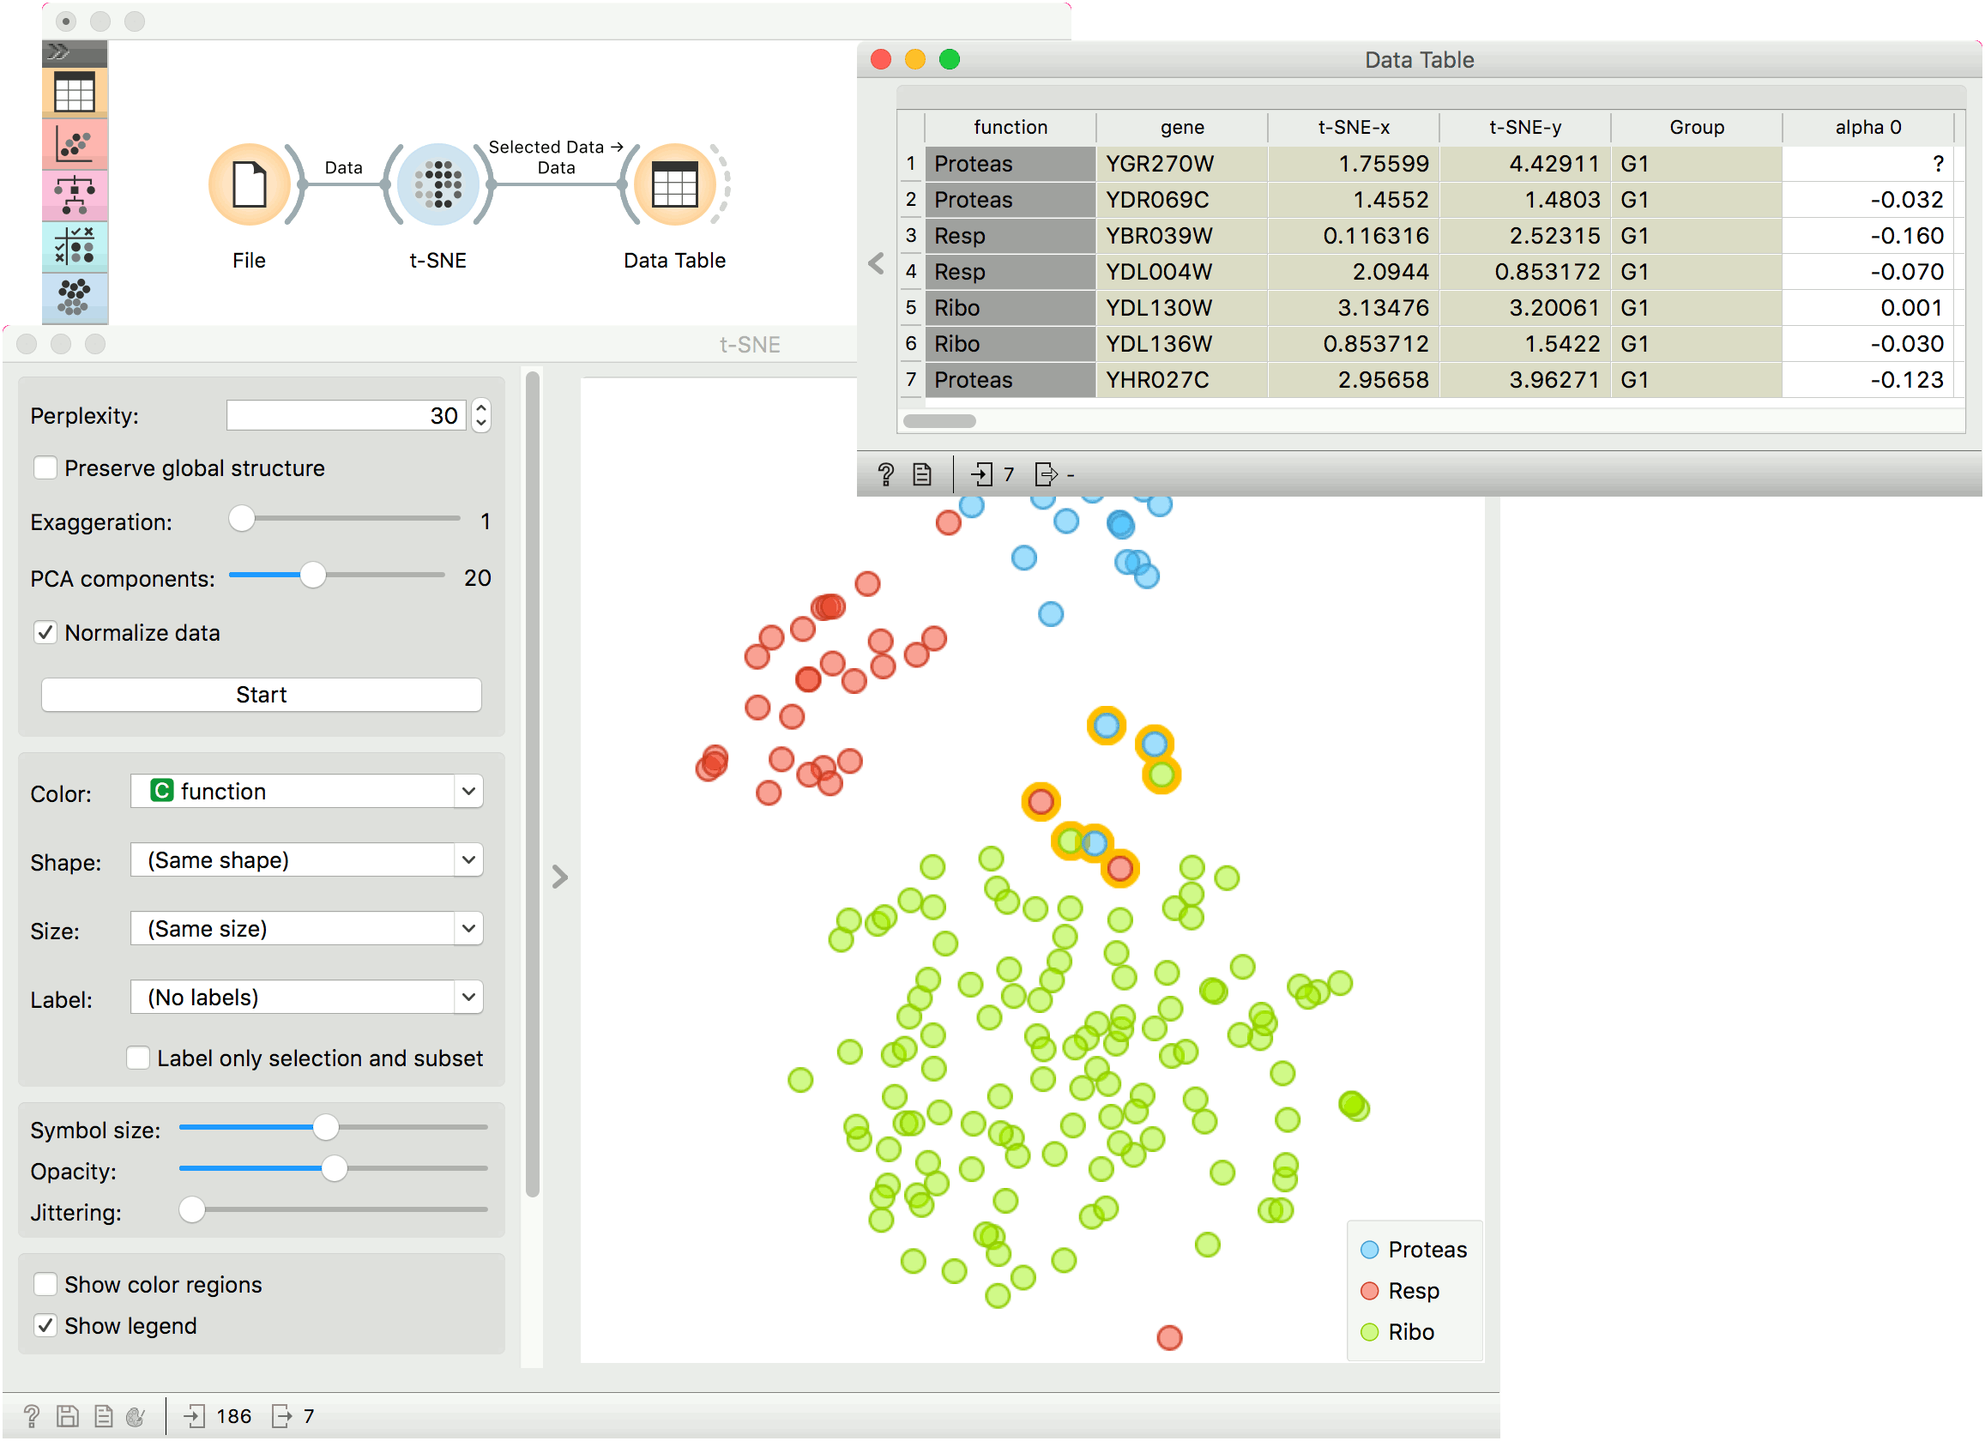
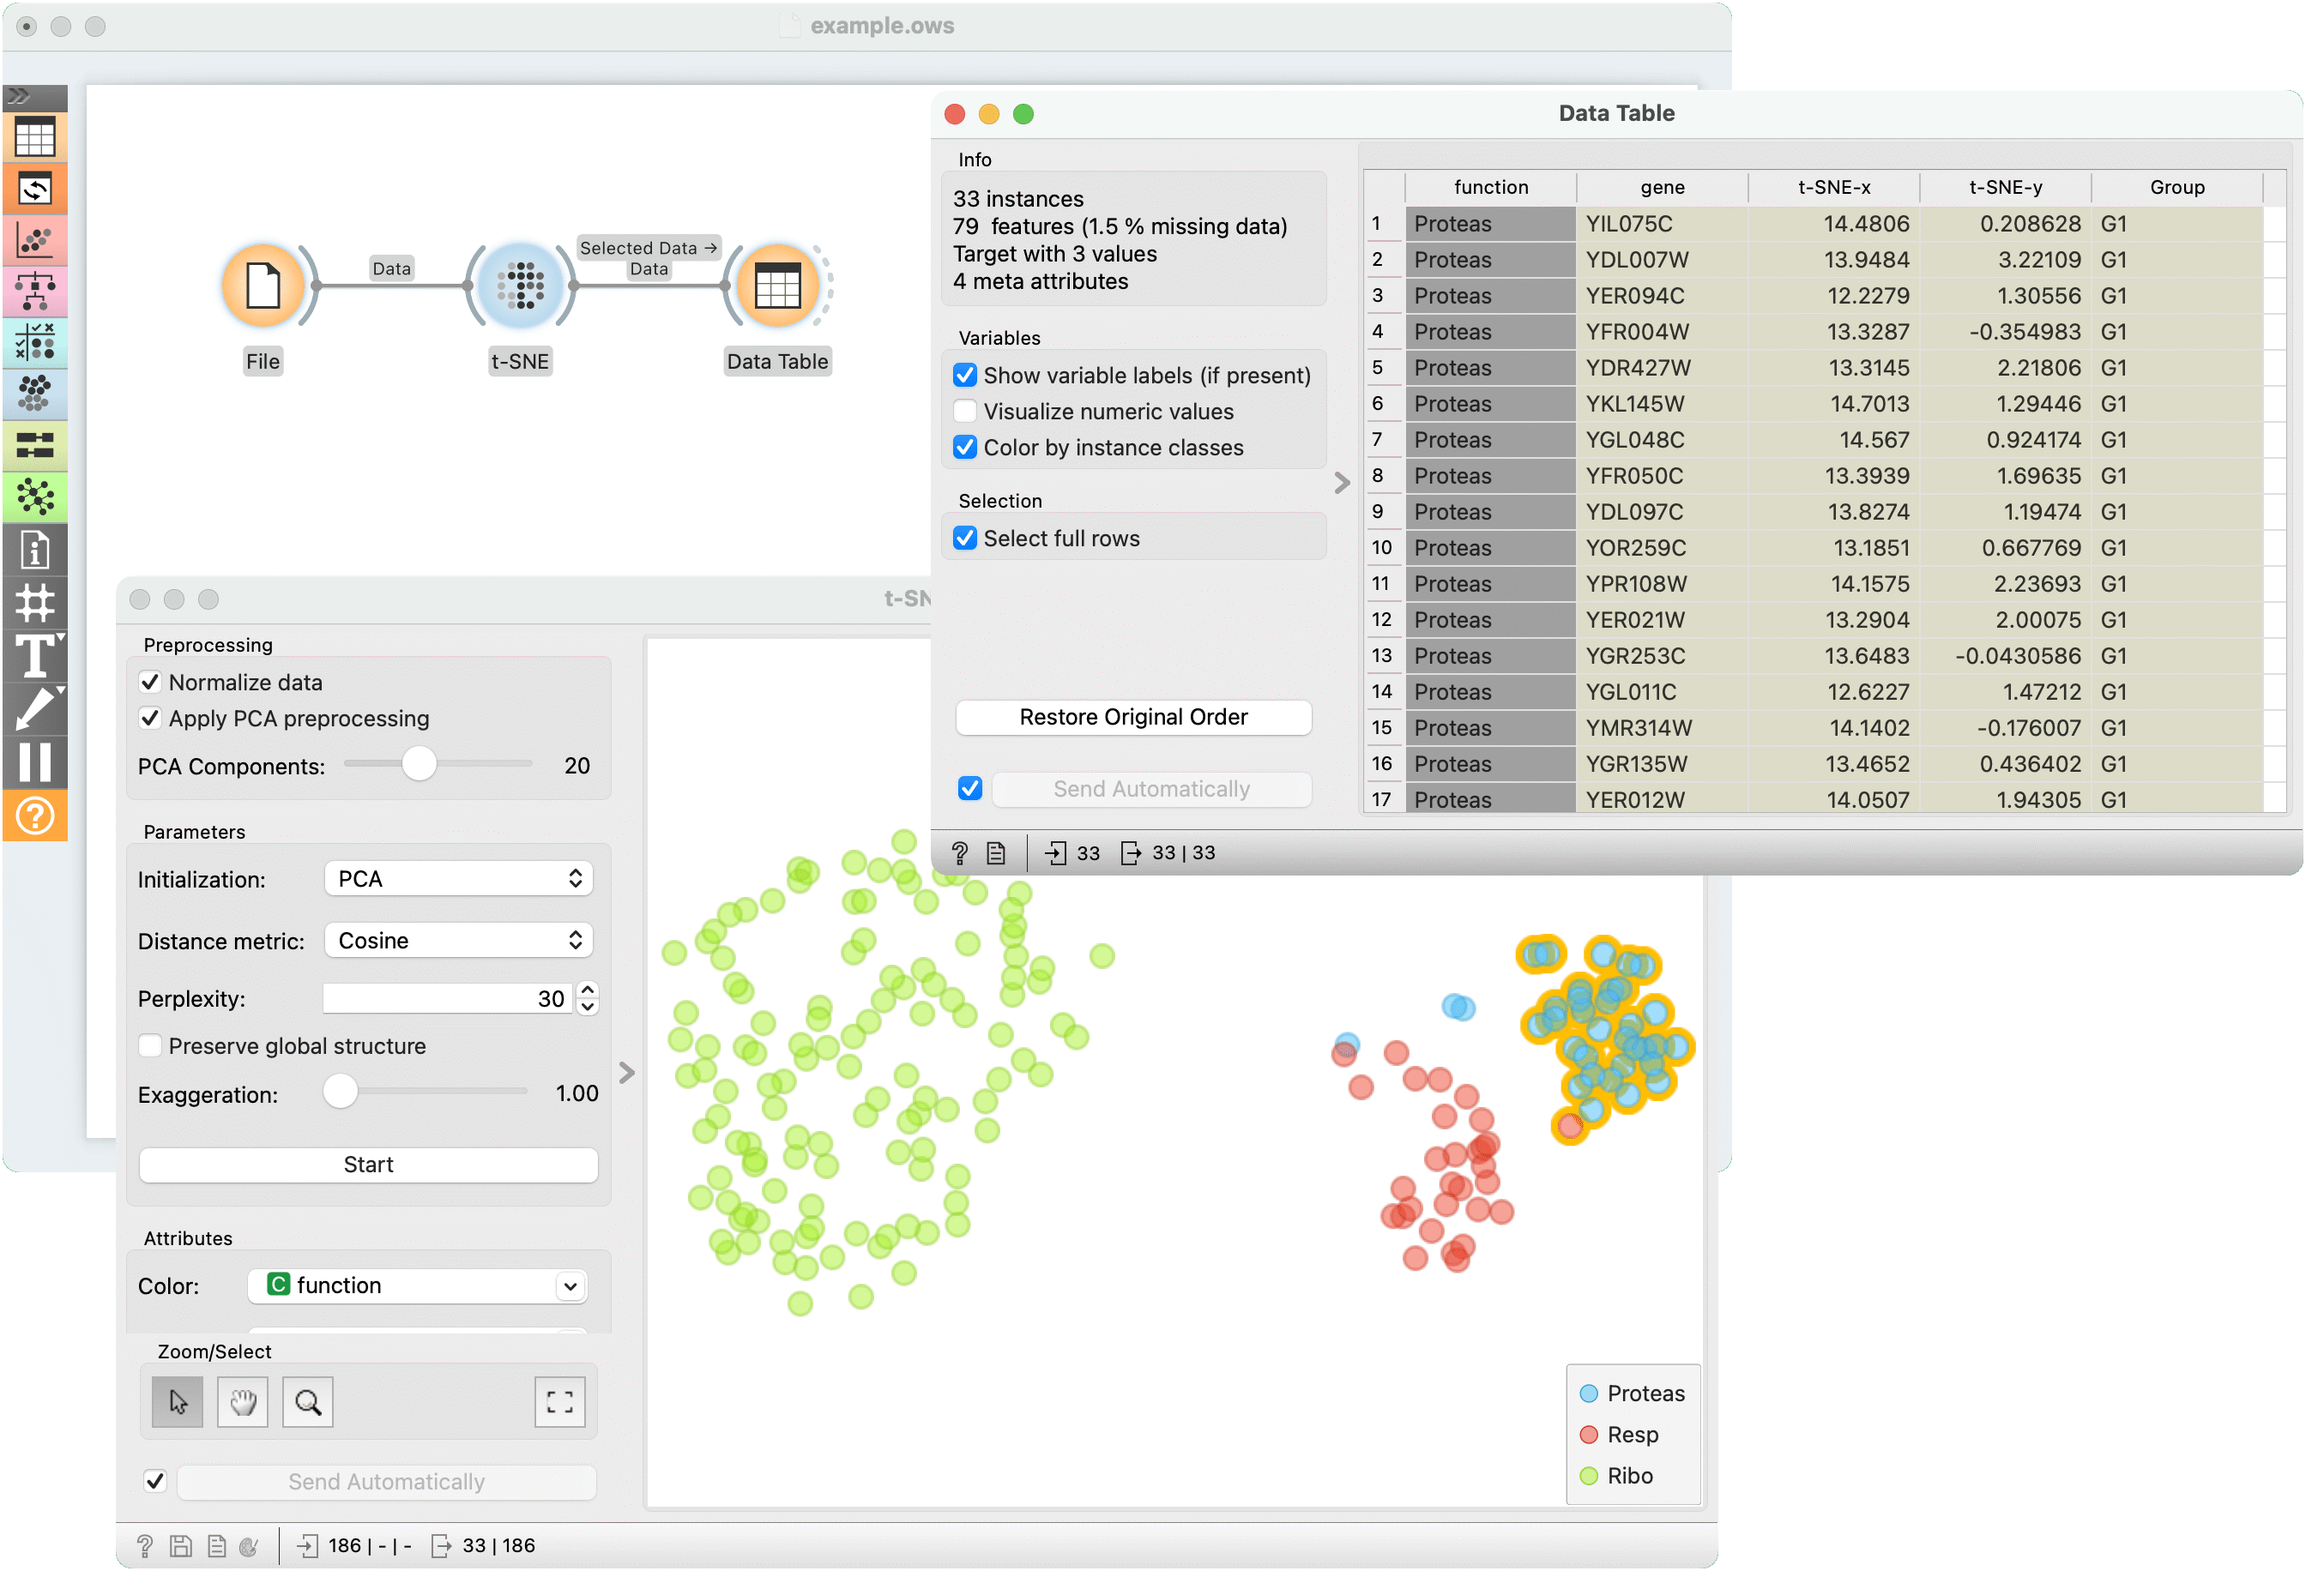
owtsne: Update documentation

diff --git a/doc/visual-programming/source/widgets/unsupervised/tsne.md b/doc/visual-programming/source/widgets/unsupervised/tsne.md
@@ -6,39 +6,51 @@ Two-dimensional data projection with t-SNE.
 **Inputs**
 
 - Data: input dataset
+- Distances: distance matrix
 - Data Subset: subset of instances
 
 **Outputs**
 
 - Selected Data: instances selected from the plot
-- Data: data with an additional column showing whether a point is selected
+- Data: data with t-SNE coordinates and an additional column showing whether a point is selected
 
-The **t-SNE** widget plots the data with a t-distributed stochastic neighbor embedding method. [t-SNE](https://en.wikipedia.org/wiki/T-distributed_stochastic_neighbor_embedding) is a dimensionality reduction technique, similar to MDS, where points are mapped to 2-D space by their probability distribution.
+The **t-SNE** widget creates a visualization using t-distributed stochastic neighbor embedding (t-SNE). [t-SNE](https://en.wikipedia.org/wiki/T-distributed_stochastic_neighbor_embedding) is a dimensionality reduction technique, similar to MDS, where points are mapped to 2-D space by their probability distribution.
+
+The widget accepts either a data table or a distance matrix as input. If a data table is provided, the widget will apply the chosen preprocessing option, then calculate distances internally.
 
 ![](images/tSNE-stamped.png)
 
-1. [Parameters](https://opentsne.readthedocs.io/en/latest/parameters.html) for plot optimization:
-   - measure of [perplexity](http://scikit-learn.org/stable/modules/generated/sklearn.manifold.TSNE.html). Roughly speaking, it can be interpreted as the number of nearest neighbors to distances will be preserved from each point. Using smaller values can reveal small, local clusters, while using large values tends to reveal the broader, global relationships between data points.
+1. Preprocessing is applied before t-SNE computes the distances between data points in the dataset. These parameters are ignored when the *Distances* input is provided.
+   - *Normalize data*: We can apply standardization before running PCA. Standardization normalizes each column by subtracting the column mean and dividing by the standard deviation.
+   - *Apply PCA preprocessing*: For datasets with large numbers of features, e.g. 100 or 1,000, or highly correlated variables, we can apply PCA preprocessing to speed up the algorithm and decorrelate the data.
+   - *PCA components*: the number of principal components to use when applying PCA preprocessing.
+
+2. Optimization parameters. The parameters are explained in-depth [here](https://opentsne.readthedocs.io/en/latest/parameters.html):
+   - *Initialization*: PCA positions the initial points along principal coordinate axes. Spectral inialization calculates the spectral embedding of t-SNE's affinity matrix. Only spectral intialization is supported when using precomputed distance matrices.
+   - *Distance metric*: The distance metric to be used when calculating distances between data points. This setting is ignored when a precomputed distance matrix is provided.
+   - [*Perplexity*](http://scikit-learn.org/stable/modules/generated/sklearn.manifold.TSNE.html): Roughly speaking, perplexity be interpreted as the number of nearest neighbors to which distances will be preserved. Using smaller values can reveal small, local clusters, while using large values tends to reveal the broader, global relationships between data points.
    - *Preserve global structure*: this option will combine two different perplexity values (50 and 500) to try preserve both the local and global structure.
    - *Exaggeration*: this parameter increases the attractive forces between points, and can directly be used to control the compactness of clusters. Increasing exaggeration may also better highlight the global structure of the data. t-SNE with exaggeration set to 4 is roughly equal to UMAP.
-   - *PCA components*: in Orange, we always run t-SNE on the principal components of the input data. This parameter controls the number of principal components to use when calculating distances between data points.
-   - *Normalize data*: We can apply standardization before running PCA. Standardization normalizes each column by subtracting the column mean and dividing by the standard deviation.
    - Press Start to (re-)run the optimization.
-2. Set the color of the displayed points. Set shape, size and label to differentiate between points. If *Label only selection and subset* is ticked, only selected and/or highlighted points will be labelled.
-3. Set symbol size and opacity for all data points. Set jittering to randomly disperse data points.
-4. *Show color regions* colors the graph by class, while *Show legend* displays a legend on the right. Click and drag the legend to move it.
-5. *Select, zoom, pan and zoom to fit* are the options for exploring the graph. The manual selection of data instances works as an angular/square selection tool. Double click to move the projection. Scroll in or out for zoom.
-6. If *Send selected automatically* is ticked, changes are communicated automatically. Alternatively, press *Send Selected*.
+3. Set the color of the displayed points. Set shape, size and label to differentiate between points. If *Label only selection and subset* is ticked, only selected and/or highlighted points will be labelled.
+4. Set symbol size and opacity for all data points. Set jittering to randomly disperse data points.
+5. *Show color regions* colors the graph by class, while *Show legend* displays a legend on the right. Click and drag the legend to move it.
+6. *Select, zoom, pan and zoom to fit* are the options for exploring the graph. The manual selection of data instances works as an angular/square selection tool. Double click to move the projection. Scroll in or out for zoom.
+7. If *Send selected automatically* is ticked, changes are communicated automatically. Alternatively, press *Send Selected*.
 
 Preprocessing
 -------------
 
-t-SNE uses default preprocessing if necessary. It executes it in the following order:
+If necessary, t-SNE applies the following preprocessing steps by default, in the following order:
 
 - continuizes categorical variables (with one feature per value)
 - imputes missing values with mean values
 
 To override default preprocessing, preprocess the data beforehand with [Preprocess](../data/preprocess.md) widget.
+
+The "Preprocessing" section also contains user-controllable options that are applied to a data table before distances are computed.
+
+If a distance matrix is provided as input, preprocessing is not applied.
 
 Examples
 --------
@@ -47,10 +59,10 @@ The first example is a simple t-SNE plot of *brown-selected* data set. Load *bro
 
 ![](images/tSNE-Example1.png)
 
-For the second example, use [Single Cell Datasets](https://orangedatamining.com/widget-catalog/single-cell/single_cell_datasets/) widget from the Single Cell add-on to load *Bone marrow mononuclear cells with AML (sample)* data. Then pass it through **k-Means** and select 2 clusters from Silhouette Scores. Ok, it looks like there might be two distinct clusters here.
+For the second example, use [Single Cell Datasets](https://orangedatamining.com/widget-catalog/single-cell/single_cell_datasets/) widget from the Single Cell add-on to load *Bone marrow mononuclear cells with AML (sample)* data. We can use t-SNE to visualize the dataset. The t-SNE visualization shows that there indeed appear to be clusters of cells in our dataset.
 
-But can we find subpopulations in these cells? Select a few marker genes with the [Marker Genes](https://orangedatamining.com/widget-catalog/bioinformatics/marker_genes/) widget, for example natural killer cells (NK cells). Pass the marker genes and k-Means results to [Score Cells](https://orangedatamining.com/widget-catalog/single-cell/score_cells/) widget. Finally, add **t-SNE** to visualize the results.
+Let's try to determine which cluster of cells corresponds to natural killer cells (NK cells). The *Marker Genes* widget from the Single Cell add-on contains collections of known marker genes for different cell types. Select the markers for NK cells.
 
-In **t-SNE**, use *Cluster* attribute to color the points and *Score* attribute to set their size. We see that killer cells are nicely clustered together and that t-SNE indeed found subpopulations.
+We can then score how much each of our cells corresponds to these marker genes using the *Score Cells* widget. We can then visualize the result in our t-SNE plot. We color the points and determine their size according to the computed *Score*. The brightly-colored, larger points correspond to cells that had high expression values of our marker genes. We can conclude that this, upper-left cluster of cells corresponds to NK cells.
 
 ![](images/tSNE-Example2.png)
